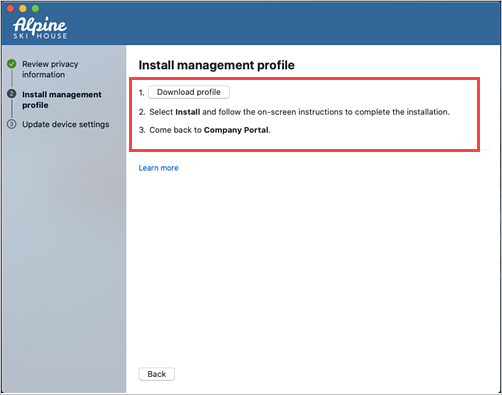
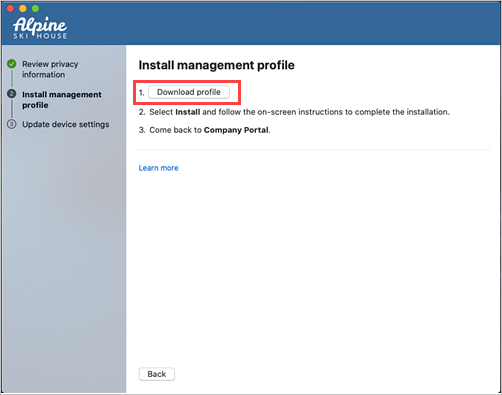
PM feedback edits

Changed region(s): [[0.239, 0.1823, 0.9562, 0.3949]]

diff --git a/intune-user-help/enroll-your-device-in-intune-macos-cp.md b/intune-user-help/enroll-your-device-in-intune-macos-cp.md
@@ -52,41 +52,46 @@ To learn more about enrollment, see [What happens when I install the Company Por
 Use the following steps to enroll your macOS device with your organization. Your device must be running macOS 10.12 or later.   
 
 > [!NOTE]
-> Throughout this process, you might be prompted to allow Company Portal to use confidential information that's stored in your keychain. These prompts are part of Apple security, and are present on devices running macOS Catalina 10.15 and later. When you get the prompt, type in your password and select **Always Allow**. If you press enter or return on your keyboard, the prompt will instead select **Allow**, which may result in additional prompts.  **Katelynn, is my rewrite accurate? Also when I googled these prompts, I see that these occurred as far back as 2016. Was Catalina around back then? If not, thinking we should just remove that part and just have that they are a part of Apple security. Also, do device users need to enter their device password or keychain password? Or are they one in the same?**
+> Throughout this process, you might be prompted to allow Company Portal to use confidential information that's stored in your keychain. These prompts are part of Apple security. When you get the prompt, type in your login keychain password and select **Always Allow**. If you press **Enter** or **Return** on your keyboard, the prompt will instead select **Allow**, which may result in additional prompts.  
 
 ### Install Company Portal app  
-1. Visit aka.ms/EnrollMyMac.  
-2. The CompanyPortal_2.0.190901-Installer.pkg will download. Launch the installer and continue through the steps. 
+1. Go to [Enroll My Mac](https://go.microsoft.com/fwlink/?linkid=853070).  
+2. The Company Portal installer .pkg file will download. Open the installer and continue through the steps. 
 3. Agree to the software license agreement. 
-4. Authenticate to install the software.   **Katelynn what action do the users take to "authenticate" here? DO they just sign in to something or are we being generic because there are multiple ways for them to authenticate in this step?**
-5. Open Company Portal. If you can’t find the app, search for it in Spotlight.  
+4. Enter your password or registered fingerprint to install the software.  
+5. Open Company Portal. 
+
+> [!IMPORTANT]
+> Microsoft AutoUpdate might open and update your Microsoft software. After all updates are installed, open the Company Portal app. For the best setup experience, install the latest versions of Microsoft AutoUpdate and Company Portal.  
 
 
 ### Enroll your Mac  
 
 
 1. Sign in to Company Portal with your work or school account.  
-2. Select **Begin**.  
-
-    ![Example screenshot of Company Portal screen., highlighting "Begin" button.](./media/company-portal-mac-begin-1911.PNG)  
+2. When the app opens, select **Begin**.  
 3. Review [what your organization can and can't see](what-info-can-your-company-see-when-you-enroll-your-device-in-intune.md) on your enrolled device. Then select **Continue**.  
-4. Follow the instructions on the **Install management profile** screen.  
+4. On the **Install management profile** screen, select **Download profile**.   
 
-    ![Example screenshot of Company Portal, Install management profile screen, highlighting 3 steps.](./media/install-mgmt-profile-mac-1911.PNG)  
-5. After you've installed the management profile, return to Company Portal.   
-6. Your organization might require you to update your device settings. When you're done updating settings, tap **Check settings**.    **Katelynn, where does the *How to resolve this* link take users? If it's a specific doc, can you let me know which one?**  
+    ![Example screenshot of Company Portal, Install management profile screen, highlighting "Download profile" button.](./media/install-mgmt-profile-mac-1911.PNG)   
+5. Your device's system preferences will open. Select **Install** and then select **Install** again. If prompted to, enter your device password.  
+
+    ![Example screenshot of macOS system preferences, installation prompt, highlighting "Install" button.](./media/system-preference-install-1911.PNG)  
+1. Once the profile is installed, it'll appear in the profiles list under **Management Profile.**  
+
+   ![Example screenshot of macOS system preferences, Profiles screen, highlighting the installed management profile.](./media/system-preference-verify-1911.PNG)   
+5. Return to Company Portal.   
+6. Your organization might require you to update your device settings. When you're done updating settings, tap **Check settings**.  
 
     ![Example screenshot of Company Portal, Update device settings screen, highlighting "Check settings" button.](./media/update-settings-mac-1911.PNG)  
 7. When setup is complete, tap **DONE**.  
 
-   ![Example screenshot of Company Portal, "You're all set!" screen, highlighting "Done" button.](./media/setup-done-mac-1911.PNG)  
-
 
  ## Troubleshooting and feedback   
 
-If you run into issues during enrollment, you can send Microsoft information about what went wrong. **Katelynn, why do they want to do this--is it purely just to report an app issue? Or will they get some kind of personal resolution from it?**  Go to **Help** > **Send Diagnostic Report**.     **Katelynn, doublechecking... is "Send Diagnostic Report" really all caps as its written here?**
+If you run into issues during enrollment, go to **Help** > **Send Diagnostic Report** to report the issue to Microsoft. This information helps us improve the product. If your IT support person contact Microsoft about the problem you've reported, we can help them resolve it.    
 
-You will receive an incident ID, and you can email the details of the issue to your IT support person.  **Katelynn, do they need to type the details of the issue themselves, as they experienced it, or will they actually have a diagnostic report that they can just attach to the email? Do they include the incident ID in the email or is that just for them to write down for their records?** Look for their contact information on the **Contact** page in the Company Portal app, or check the [Company Portal website](https://go.microsoft.com/fwlink/?linkid=2010980).  **Katelynn, here is another article we might want to update. Can you review to make sure it's still accurate?: https://docs.microsoft.com/en-us/intune-user-help/send-errors-macos**  
+After you report the problem to Microsoft, you can send the details of your experience to your IT support person. Select **Email Details**. Type in what you experienced in the body of the email. To find your support person's email address, go to the Company Portal app > **Contact**. Or check the [Company Portal website](https://go.microsoft.com/fwlink/?linkid=2010980).  
  
 
 Additionally, the Microsoft Intune Company Portal team would love to hear your feedback. Go to **Help** > **Send Feedback** to share your thoughts and ideas.  
@@ -94,9 +99,7 @@ Additionally, the Microsoft Intune Company Portal team would love to hear your f
 ## Unverified profiles  
 When you view the installed mobile device management (MDM) profiles in **System Preferences** > **Profiles**, some profiles might show an unverified status. As long as the management profile shows a verified status, you don’t need to be concerned.  
 
-The management profile is what defines the MDM channel connection. As long as the management profile is verified, any other profiles delivered to the machine via that channel inherit the security traits of the management profile.  
-
-Also, because those other profiles don’t require individual verifications or manual installation, they're generated and delivered to devices quicker.   **Katelynn, do you think this last sentence is useful to the typical device user? I'm a macOS user and I don't understand this part at all, nor do I care. Haha! But if you think the majority will find it useful, it's fine to keep in.** 
+The management profile is what defines the MDM channel connection. As long as the management profile is verified, any other profiles delivered to the machine via that channel inherit the security traits of the management profile.   
 
 ## Updating the Company Portal app
 
